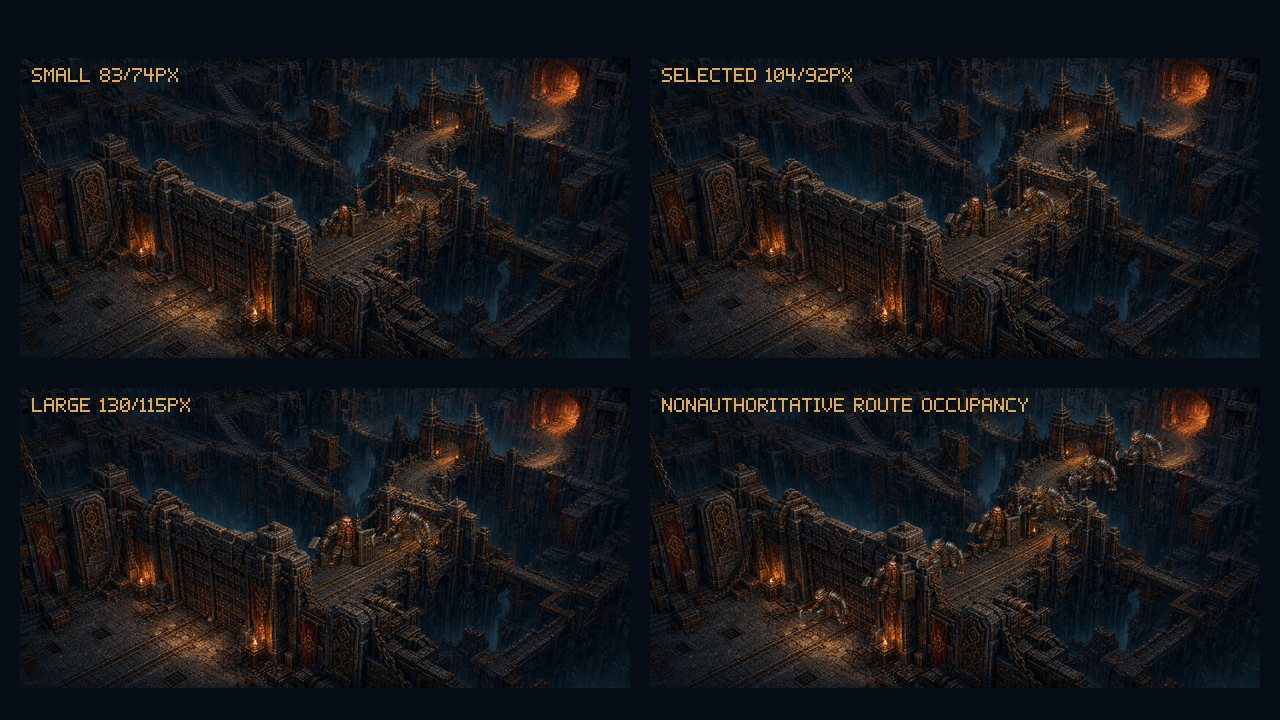
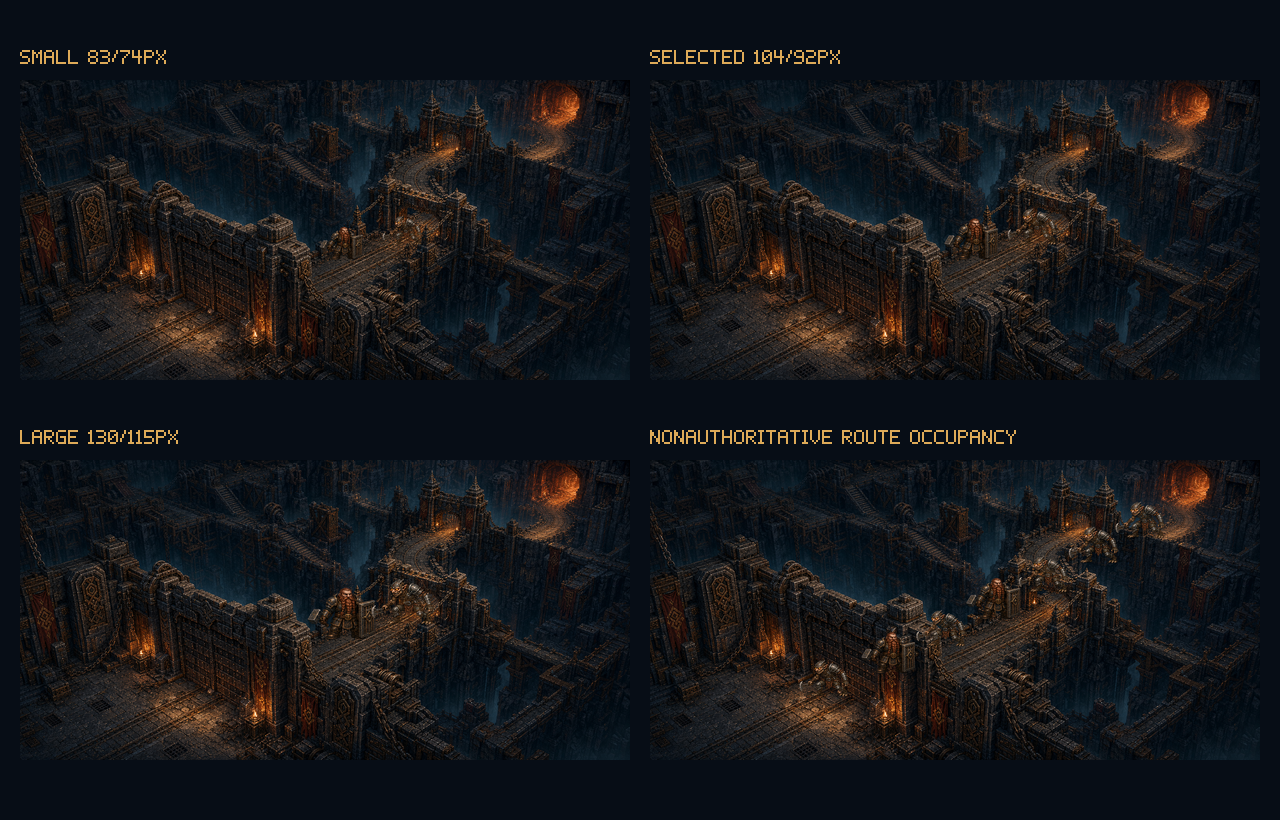
Rebuild production scene review evidence

diff --git a/assets/game-art/production-scene/build_scene.py b/assets/game-art/production-scene/build_scene.py
@@ -1630,12 +1630,39 @@ def _build_hud_v2() -> dict[str, Image.Image]:
     return parts
 
 
-def _walkable_mask_v2(route: list[list[int]]) -> Image.Image:
+def _walkable_mask_v2() -> Image.Image:
+    """Return the hand-surveyed painted-floor area, independent of route metadata."""
     mask = Image.new("L", FRAME, 0)
     draw = ImageDraw.Draw(mask)
-    draw.line([tuple(point) for point in route], fill=255, width=54, joint="curve")
-    for x, y in route:
-        draw.ellipse((x - 27, y - 27, x + 27, y + 27), fill=255)
+    # Authored against the clean plate's floor edges, not expanded from the route
+    # polyline.  The route is validated against this independently stored survey.
+    draw.polygon(
+        [
+            (1128, 82),
+            (1160, 130),
+            (1060, 204),
+            (968, 264),
+            (858, 332),
+            (746, 397),
+            (628, 462),
+            (510, 530),
+            (382, 578),
+            (270, 624),
+            (188, 650),
+            (148, 620),
+            (274, 540),
+            (432, 474),
+            (548, 404),
+            (668, 338),
+            (790, 270),
+            (912, 198),
+            (1022, 126),
+        ],
+        fill=255,
+    )
+    # Screen-space HUD is not walkable world, even where the surveyed floor
+    # continues behind its transparent/chamfered edge.
+    draw.rectangle((272, 604, 1261, 703), fill=0)
     return mask
 
 
@@ -1699,27 +1726,66 @@ def _recipe_without_v2(recipe: dict[str, object], excluded: set[str]) -> dict[st
 
 
 def _labelled_grid_v2(panels: list[tuple[str, Image.Image]]) -> Image.Image:
-    board = Image.new("RGBA", (1280, 720), (7, 13, 22, 255))
-    slots = ((20, 58), (650, 58), (20, 388), (650, 388))
+    """Lay out four review panels with labels in gutters, never over artwork."""
+    board = Image.new("RGBA", (1280, 820), (7, 13, 22, 255))
+    slots = ((20, 50), (650, 50), (20, 430), (650, 430))
     for (label, image), (x, y) in zip(panels, slots):
         fitted = image.resize((610, 300), Image.Resampling.LANCZOS)
-        board.alpha_composite(fitted, (x, y))
-        pixel_text(board, (x + 12, y + 10), label, 2)
+        pixel_text(board, (x, y), label, 2)
+        board.alpha_composite(fitted, (x, y + 30))
     return board
 
 
 def _route_board_v2(clean: Image.Image, route: list[list[int]], walkable: Image.Image) -> Image.Image:
-    board = clean.copy()
+    board = Image.new("RGBA", (1280, 820), (7, 13, 22, 255))
+    pixel_text(board, (24, 18), "REVIEW ONLY PAINTED FLOOR SURVEY AND ROUTE", 2)
+    pixel_text(board, (24, 44), "MASK AUTHORED FROM CLEAN PLATE NOT FROM ROUTE", 2)
+    scene = clean.copy()
     tint = Image.new("RGBA", FRAME, (50, 180, 105, 0))
     tint.putalpha(walkable.point(lambda value: value // 3))
-    board.alpha_composite(tint)
-    draw = ImageDraw.Draw(board)
+    scene.alpha_composite(tint)
+    draw = ImageDraw.Draw(scene)
     draw.line([tuple(point) for point in route], fill=(255, 60, 180, 255), width=4)
     for index, (x, y) in enumerate(route):
         draw.ellipse((x - 8, y - 8, x + 8, y + 8), fill=(255, 220, 80, 255))
-        pixel_text(board, (x + 10, y - 10), str(index + 1), 2)
-    pixel_text(board, (24, 82), "REVIEW ONLY ROUTE AND WALKABLE MASK", 2)
-    pixel_text(board, (24, 108), "ENTRANCE TO GATE ALL VISIBLE OUTSIDE HUD", 2)
+        pixel_text(scene, (x + 10, y - 10), str(index + 1), 2)
+    landmarks = ((route[0], "ENTRANCE"), (route[3], "CHOKE A"), (route[4], "RAIL"), (route[5], "CHOKE B"), (route[-1], "GATE"))
+    for (x, y), label in landmarks:
+        pixel_text(scene, (max(8, min(x + 12, 1150)), max(8, y - 28)), label, 1)
+    board.alpha_composite(scene, (0, 100))
+    return board
+
+
+def _lighting_board_v2(
+    clean: Image.Image,
+    sprite: Image.Image,
+    pivot: tuple[int, int],
+    lighting: Image.Image,
+) -> Image.Image:
+    panels: list[tuple[str, Image.Image]] = []
+    for anchor_name, ground in (("ENTRANCE", (1028, 190)), ("CENTRAL ROUTE", (674, 434))):
+        unlit = clean.copy()
+        unlit.alpha_composite(sprite, (ground[0] - pivot[0], ground[1] - pivot[1]))
+        lit = unlit.copy()
+        lit.alpha_composite(lighting)
+        crop = (ground[0] - 180, ground[1] - 150, ground[0] + 180, ground[1] + 90)
+        panels.extend(
+            [
+                (f"{anchor_name} UNLIT", unlit.crop(crop)),
+                (f"{anchor_name} LIT NORMAL SRGB", lit.crop(crop)),
+            ]
+        )
+    return _labelled_grid_v2(panels)
+
+
+def _impact_board_v2(reconstruction: Image.Image, impact: Image.Image) -> Image.Image:
+    board = Image.new("RGBA", (2560, 820), (7, 13, 22, 255))
+    pixel_text(board, (24, 18), "NEUTRAL COUNT PROOF ONE WARDEN ONE HOSTILE", 2)
+    pixel_text(board, (1304, 18), "CONTACT FRAME SEPARATE IMPACT BOTH SILHOUETTES VISIBLE", 2)
+    board.alpha_composite(reconstruction, (0, 100))
+    contact = reconstruction.copy()
+    contact.alpha_composite(impact, (720, 360))
+    board.alpha_composite(contact, (1280, 100))
     return board
 
 
@@ -1763,12 +1829,14 @@ def _scale_board_v2(clean: Image.Image, sprites: dict[str, Image.Image]) -> Imag
 
 
 def _composition_decision_v2(approved: Image.Image, current: Image.Image) -> Image.Image:
-    board = Image.new("RGBA", (2560, 720), (0, 0, 0, 255))
-    board.alpha_composite(approved, (0, 0))
-    board.alpha_composite(current, (1280, 0))
-    pixel_text(board, (24, 24), "APPROVED 284 DIRECTION POPULATED CENTRAL DEFENSE", 2)
-    pixel_text(board, (1304, 24), "286 PROPOSED FLOOR WIDER DIAGONAL ROUTE", 2)
-    pixel_text(board, (1304, 50), "DECISION REQUEST ACCEPT CAMERA ROUTE HUD REGIONS", 2)
+    board = Image.new("RGBA", (2560, 900), (7, 13, 22, 255))
+    pixel_text(board, (24, 18), "LEFT APPROVED 284 ART DIRECTION", 2)
+    pixel_text(board, (24, 44), "DENSER CENTRAL ENCOUNTER STAGING", 2)
+    pixel_text(board, (1304, 18), "RIGHT 286 PROPOSED PRODUCTION FLOOR", 2)
+    pixel_text(board, (1304, 44), "WIDER DIAGONAL ROUTE FIXED HUD REGIONS 104 92PX", 2)
+    pixel_text(board, (500, 76), "DECISION REQUEST ACCEPT THIS CAMERA ROUTE ENTRANCE GATE AND HUD FLOOR FOR 287", 2)
+    board.alpha_composite(approved, (0, 180))
+    board.alpha_composite(current, (1280, 180))
     return board
 
 
@@ -1810,7 +1878,7 @@ def build(output_root: Path = ROOT) -> None:
     lighting = lighting_overlay()
     png(lighting, exports / "lighting" / "warm-light-overlay.png")
     mask, occluder = _occlusion_v2(clean)
-    walkable = _walkable_mask_v2(scene["route"]["polyline"])
+    walkable = _walkable_mask_v2()
     png(mask, exports / "occlusion" / "architecture-mask.png")
     png(occluder, exports / "occlusion" / "foreground-occluder.png")
     png(walkable, exports / "occlusion" / "route-walkable-mask.png")
@@ -1832,7 +1900,18 @@ def build(output_root: Path = ROOT) -> None:
 
     warden_only = _compose_v2(_recipe_without_v2(recipe, {"mine-raider-attack", "hostile-faction-ring"}), assets)
     hostile_only = _compose_v2(_recipe_without_v2(recipe, {"iron-warden-shield-slam", "warden-selection-ring"}), assets)
-    png(_labelled_grid_v2([("BOTH", reconstruction), ("WARDEN ONLY", warden_only), ("HOSTILE ONLY", hostile_only), ("NEITHER", no_entities)]), evidence / "entity-removal-grid.png")
+    clean_digest = hashlib.sha256(clean.convert("RGB").tobytes()).hexdigest()[:12].upper()
+    png(
+        _labelled_grid_v2(
+            [
+                (f"BOTH WORLD {clean_digest}", reconstruction),
+                (f"WARDEN ONLY WORLD {clean_digest}", warden_only),
+                (f"HOSTILE ONLY WORLD {clean_digest}", hostile_only),
+                (f"NEITHER WORLD {clean_digest}", no_entities),
+            ]
+        ),
+        evidence / "entity-removal-grid.png",
+    )
 
     hud_board = Image.new("RGBA", FRAME, (7, 13, 22, 255))
     for layer in _ordered_layers_v2(recipe):
@@ -1859,13 +1938,16 @@ def build(output_root: Path = ROOT) -> None:
     png(occlusion_samples, evidence / "occlusion-depth-proof.png")
     png(lighting, evidence / "lighting-alpha-isolation.png")
     unlit = _compose_v2(_recipe_without_v2(recipe, {"warm-light-overlay"}), assets)
-    png(_labelled_grid_v2([("UNLIT ENTITIES", unlit), ("NORMAL SRGB LIGHTING", reconstruction), ("LIT ENTRANCE", reconstruction), ("LIT CENTRAL ROUTE", reconstruction)]), evidence / "lighting-entity-proof.png")
+    png(
+        _lighting_board_v2(clean, sprites["iron-warden-idle"], (90, 112), lighting),
+        evidence / "lighting-entity-proof.png",
+    )
     png(_route_board_v2(clean, scene["route"]["polyline"], walkable), evidence / "route-anchor-validation.png")
     png(_alignment_board_v2(sprites), evidence / "entity-state-alignment.png")
-    impact_scene = reconstruction.copy()
-    impact_scene.alpha_composite(effects["shield-slam-impact"], (900, 330))
-    pixel_text(impact_scene, (900, 300), "SEPARATE IMPACT HOSTILE REMAINS READABLE", 2)
-    png(impact_scene, evidence / "shield-slam-effect-proof.png")
+    png(
+        _impact_board_v2(reconstruction, effects["shield-slam-impact"]),
+        evidence / "shield-slam-effect-proof.png",
+    )
     png(_scale_board_v2(clean, sprites), evidence / "character-scale-study.png")
     png(isolation_board([sprites["iron-warden-idle"], sprites["iron-warden-shield-slam"]], 1), evidence / "iron-warden-alpha-states-native.png")
     png(isolation_board([sprites["iron-warden-idle"], sprites["iron-warden-shield-slam"]], 4), evidence / "iron-warden-alpha-states-4x.png")
@@ -2126,9 +2208,9 @@ def verify(root: Path = ROOT) -> None:
     if not isinstance(route_polyline, list):
         raise ValueError("Route polyline must be an array")
     with Image.open(walkable_path).convert("L") as walkable, Image.open(foreground_path).convert("L") as foreground:
-        expected_walkable = _walkable_mask_v2(route_polyline)
+        expected_walkable = _walkable_mask_v2()
         if walkable.size != expected_walkable.size or walkable.tobytes() != expected_walkable.tobytes():
-            raise ValueError("Walkable mask does not match canonical route geometry")
+            raise ValueError("Walkable mask does not match the authored clean-plate floor survey")
         foreground_alpha = assets["foreground-occluder"].getchannel("A")
         if foreground.size != foreground_alpha.size or foreground.tobytes() != foreground_alpha.tobytes():
             raise ValueError("Architecture mask does not match foreground occluder alpha")
@@ -2167,6 +2249,17 @@ def verify(root: Path = ROOT) -> None:
                 raise ValueError("Route point is not walkable and unobscured")
             if any(x0 <= x < x1 and y0 <= y < y1 for x0, y0, x1, y1 in hud_rects):
                 raise ValueError("Route point is hidden beneath HUD")
+        for start, end in zip(route_polyline, route_polyline[1:]):
+            x0, y0 = validate_point(start, "scene.route segment start")
+            x1, y1 = validate_point(end, "scene.route segment end")
+            steps = max(abs(x1 - x0), abs(y1 - y0))
+            for step in range(steps + 1):
+                x = round(x0 + (x1 - x0) * step / steps)
+                y = round(y0 + (y1 - y0) * step / steps)
+                if walkable.getpixel((x, y)) != 255:
+                    raise ValueError(
+                        "Route segment leaves the independently authored painted-floor survey"
+                    )
 
     states = _assert_strict_v2(scene["entityStates"], {"iron-warden-idle", "iron-warden-shield-slam", "mine-raider-idle", "mine-raider-attack"}, "scene.entityStates")
     canonical_entity_alpha = {
@@ -2273,7 +2366,19 @@ def verify(root: Path = ROOT) -> None:
     warden_only = _compose_v2(_recipe_without_v2(recipe, {"mine-raider-attack", "hostile-faction-ring"}), assets)
     hostile_only = _compose_v2(_recipe_without_v2(recipe, {"iron-warden-shield-slam", "warden-selection-ring"}), assets)
     require_same_pixels(no_entities, root / expected_proofs["entitiesRemoved"], "Entity-removal reconstruction")
-    require_same_pixels(_labelled_grid_v2([("BOTH", _compose_v2(recipe, assets)), ("WARDEN ONLY", warden_only), ("HOSTILE ONLY", hostile_only), ("NEITHER", no_entities)]), root / expected_proofs["individualRemoval"], "Individual-removal grid")
+    clean_digest = hashlib.sha256(assets["shuttergate-clean-plate-1280x720"].convert("RGB").tobytes()).hexdigest()[:12].upper()
+    require_same_pixels(
+        _labelled_grid_v2(
+            [
+                (f"BOTH WORLD {clean_digest}", _compose_v2(recipe, assets)),
+                (f"WARDEN ONLY WORLD {clean_digest}", warden_only),
+                (f"HOSTILE ONLY WORLD {clean_digest}", hostile_only),
+                (f"NEITHER WORLD {clean_digest}", no_entities),
+            ]
+        ),
+        root / expected_proofs["individualRemoval"],
+        "Individual-removal grid",
+    )
     require_same_pixels(assets["shuttergate-clean-plate-1280x720"], root / expected_proofs["environmentOnly"], "Clean-plate proof")
     architecture_mask_image = Image.open(package / "exports" / "occlusion" / "architecture-mask.png").convert("L")
     walkable_image = Image.open(package / "exports" / "occlusion" / "route-walkable-mask.png").convert("L")
@@ -2298,10 +2403,34 @@ def verify(root: Path = ROOT) -> None:
     comparison.alpha_composite(reconstruction, (1280, 0))
     require_same_pixels(comparison, evidence_root / "approved-keyframe-vs-reconstruction.png", "Approved-keyframe comparison")
     require_same_pixels(_composition_decision_v2(approved, reconstruction), evidence_root / "composition-decision.png", "Composition-decision proof")
-    impact_scene = reconstruction.copy()
-    impact_scene.alpha_composite(assets["shield-slam-impact"], (900, 330))
-    pixel_text(impact_scene, (900, 300), "SEPARATE IMPACT HOSTILE REMAINS READABLE", 2)
-    require_same_pixels(impact_scene, root / expected_proofs["impact"], "Shield-Slam impact proof")
+    require_same_pixels(
+        _impact_board_v2(reconstruction, assets["shield-slam-impact"]),
+        root / expected_proofs["impact"],
+        "Shield-Slam impact proof",
+    )
+    impact_alpha = assets["shield-slam-impact"].getchannel("A")
+    impact_position = (720, 360)
+    for layer in entity_layers:
+        entity_alpha = assets[layer["asset"]].getchannel("A")
+        visible = 0
+        overlapped = 0
+        for y in range(entity_alpha.height):
+            for x in range(entity_alpha.width):
+                if entity_alpha.getpixel((x, y)) == 0:
+                    continue
+                visible += 1
+                impact_x = layer["position"][0] + x - impact_position[0]
+                impact_y = layer["position"][1] + y - impact_position[1]
+                if (
+                    0 <= impact_x < impact_alpha.width
+                    and 0 <= impact_y < impact_alpha.height
+                    and impact_alpha.getpixel((impact_x, impact_y)) != 0
+                ):
+                    overlapped += 1
+        if overlapped == 0 or overlapped * 4 >= visible:
+            raise ValueError(
+                f"Shield-Slam contact must touch but preserve the silhouette of {layer['asset']}"
+            )
 
     hud = scene["hudDynamicState"]
     _assert_strict_v2(hud, {"font", "textColor", "baselinePolicy", "fixture", "minimumVariants"}, "scene.hudDynamicState")
@@ -2344,8 +2473,12 @@ def verify(root: Path = ROOT) -> None:
     pixel_text(hud_mutation, (24, 78), "FIXTURE READY NEAREST RUNNING", 2)
     pixel_text(hud_mutation, (1304, 78), "ALTERNATE COOLDOWN STRONGEST PAUSED", 2)
     require_same_pixels(hud_mutation, root / expected_proofs["hudMutation"], "HUD-mutation proof")
-    unlit = _compose_v2(_recipe_without_v2(recipe, {"warm-light-overlay"}), assets)
-    lighting_proof = _labelled_grid_v2([("UNLIT ENTITIES", unlit), ("NORMAL SRGB LIGHTING", _compose_v2(recipe, assets)), ("LIT ENTRANCE", _compose_v2(recipe, assets)), ("LIT CENTRAL ROUTE", _compose_v2(recipe, assets))])
+    lighting_proof = _lighting_board_v2(
+        clean,
+        assets["iron-warden-idle"],
+        (90, 112),
+        assets["warm-light-overlay"],
+    )
     require_same_pixels(lighting_proof, root / expected_proofs["lightingEntities"], "Entity-lighting proof")
     occlusion_samples = [
         ("iron-warden-idle", (140, 200), (90, 112)),

diff --git a/assets/game-art/production-scene/README.md b/assets/game-art/production-scene/README.md
@@ -21,8 +21,8 @@ The verifier strictly rejects extra contract properties, stale/unmanifested file
 - The neutral reconstruction contains one readable Warden and one readable raider; Shield Slam impact is proved separately.
 - HUD chrome is separate from fixture values, health fill, target selection, ability readiness/cooldown, and pause/resume state.
 - The bottom HUD begins at x=272, leaving the lower-left gate and route endpoint visible.
-- The route has a machine-checked walkable mask and diagnostic-only anchor overlay.
-- Occlusion is explicitly bounded to #287's two fixed truth-screen anchors. Full route traversal masks belong to #273.
+- The route is checked segment-by-segment against a separately hand-surveyed clean-plate floor mask; the diagnostic overlay labels entrance, chokepoints, rail crossing, and gate and is never player UI.
+- Occlusion is explicitly bounded to #287's two fixed truth-screen anchors at Warden `[674, 434]` and raider `[802, 398]`. It does not support or claim route traversal; #287's bounded clip must keep those anchors fixed. Full traversal masks and motion belong to #273.
 - Lighting uses straight-alpha normal compositing in sRGB, after entities/foreground and before combat effects/HUD.
 
 ## Approval boundary
@@ -44,6 +44,16 @@ The verifier strictly rejects extra contract properties, stale/unmanifested file
 ## Composition decision requested
 
 The clean plate retains the wider diagonal, architecture-forward composition shown in the current evidence rather than #284's denser populated central staging. It was previously praised but not approved. `composition-decision.png` explicitly compares the camera, route, entrance/gate, encounter density, HUD regions, and selected character scale. Approval of #286 explicitly accepts or rejects this composition as the floor for #287; it does not imply that sparse encounter density is final.
+
+## Exact decision surface
+
+| Review item | Requested now | Demonstrated fact | Known limitation / later owner |
+|---|---|---|---|
+| Composition | Accept the wider diagonal camera, entrance/gate, route, and HUD regions as #287's floor | Clean plate is complete and independently layered | Encounter density and production battlefield polish: #273 |
+| Entities | Accept 104 px Warden, 92 px raider, shared pivots, and two fixed anchors | Individual removal keeps the same clean-plate pixel digest | Full movement/combat/hit/death animation: #273 |
+| Occlusion | Accept only the two fixed #287 anchors | Two off-route samples demonstrate partial architecture masking | Route traversal is not claimed: #273 |
+| HUD | Accept regions and minimum state separation for #287 | Chrome, values, target, ability, and pause variants are separate | Final ornament/information hierarchy: #275 |
+| Responsive presentation | No visual decision requested | Crop policy is metadata only | Layout, accessibility modes, and viewport evidence: #276 |
 
 ## Files
 

diff --git a/assets/game-art/production-scene/generation-log.md b/assets/game-art/production-scene/generation-log.md
@@ -20,6 +20,8 @@ Visual QA found zero apparent defenders, enemies, creature silhouettes, combat e
 
 `build_scene.py` deterministically derives the two alpha character states needed by #287 from the approved #282 character masters, authors separate effect/HUD/lighting/mask layers, composes the proof, publishes isolation boards and an in-scene scale study, and records every output digest. These poses are a bounded truth-screen set rather than a production animation set; #273 owns complete movement, combat, hit, and death animation coverage. No third-party asset, font, texture, stock image, or model is used.
 
+The route walkable mask is a manually authored survey of visible floor boundaries in the clean plate. It is not generated by stroking or expanding the route polyline. Verification independently checks every route-segment sample against that survey and rejects HUD or foreground overlap. The survey is diagnostic contract data only and is never rendered in player mode.
+
 ## Reproducible export toolchain
 
 - Python: `3.13.5`
